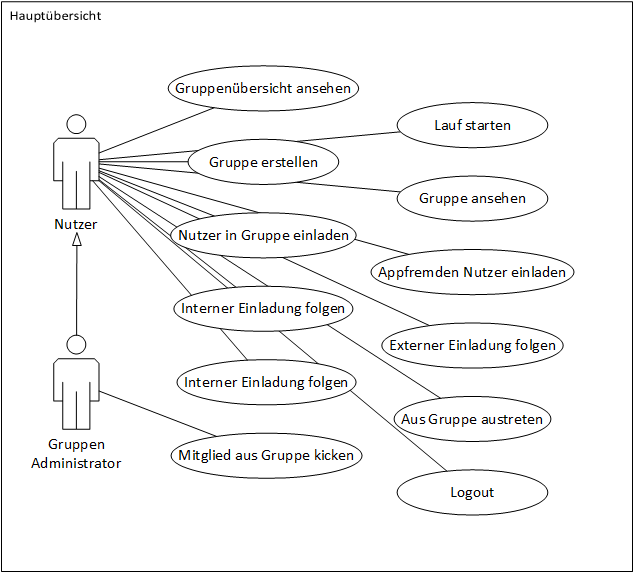
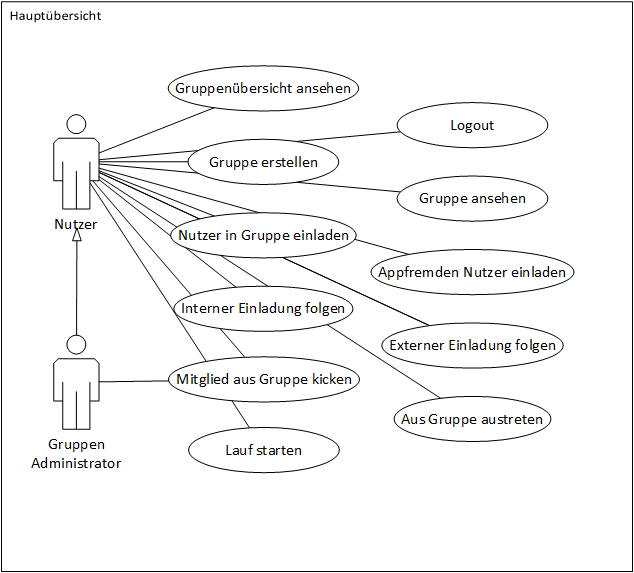
fixed use duplicate case diagram, added gpx export use case

diff --git a/docs/4_analyse.tex b/docs/4_analyse.tex
@@ -120,13 +120,13 @@ Misserfolg & Der Nutzer wird abgemeldet, falls eine Authentifizierung nicht mög
 \hline \end{tabular}
 \begin{tabular}{|p{0.2\textwidth}|p{0.8\textwidth}|}
 \hline
-\textbf{Use Case} & \textbf{Lauf starten} \\ \hline
+\textbf{Use Case} & \textbf{Logout} \\ \hline
 Aktoren &  Ein Nutzer \\ \hline
-Ziel &  Der Nutzer will einen neuen Lauf starten \\ \hline
-Bedingungen &  Der Nutzer ist angemeldet und befindet sich in der Hauptaktivität. Der Lokalisierungsdienst ist aktiviert \\ \hline
-Beschreibung &  Es wird eine Auswahl aller möglichen Distanzen und zugehörigen Gruppen angezeigt\\ \hline
-Erfolg & Der Dialog zum Starten eines Laufs wird angezeigt \\ \hline
-Misserfolg & Der Nutzer wird aufgefordert, den Lokalisierungsdienst zu starten \\ \hline
+Ziel &  Der Nutzer möchte sich abmelden \\ \hline
+Bedingungen &  Der Nutzer ist angemeldet und befindet sich in der Hauptaktivität \\ \hline
+Beschreibung & Der Nutzer betätigt den Logout Menüpunkt. Sein Authentifizierungstoken wird genau wie seine Nutzerdaten vom Android Gerät entfernt. Der Anmeldebildschirm wird angezeigt \\ \hline
+Erfolg & Der Nutzer hat keinen Zugriff mehr auf die Funktionen der App\\ \hline
+Misserfolg & Keiner \\ \hline
 \hline \end{tabular}
 \begin{tabular}{|p{0.2\textwidth}|p{0.8\textwidth}|}
 \hline
@@ -210,13 +210,13 @@ Misserfolg & Das Mitglied wird nicht gelöscht, falls der Nutzer kein Gruppenadm
 \hline \end{tabular}
 \begin{tabular}{|p{0.2\textwidth}|p{0.8\textwidth}|}
 \hline
-\textbf{Use Case} & \textbf{Logout} \\ \hline
+\textbf{Use Case} & \textbf{Lauf starten} \\ \hline
 Aktoren &  Ein Nutzer \\ \hline
-Ziel &  Der Nutzer möchte sich abmelden \\ \hline
-Bedingungen &  Der Nutzer ist angemeldet und befindet sich in der Hauptaktivität \\ \hline
-Beschreibung & Der Nutzer betätigt den Logout Menüpunkt. Sein Authentifizierungstoken wird genau wie seine Nutzerdaten vom Android Gerät entfernt. Der Anmeldebildschirm wird angezeigt \\ \hline
-Erfolg & Der Nutzer hat keinen Zugriff mehr auf die Funktionen der App\\ \hline
-Misserfolg & Keiner \\ \hline
+Ziel &  Der Nutzer will einen neuen Lauf starten \\ \hline
+Bedingungen &  Der Nutzer ist angemeldet und befindet sich in der Hauptaktivität. Der Lokalisierungsdienst ist aktiviert \\ \hline
+Beschreibung &  Es wird eine Auswahl aller möglichen Distanzen und zugehörigen Gruppen angezeigt\\ \hline
+Erfolg & Der Dialog zum Starten eines Laufs wird angezeigt \\ \hline
+Misserfolg & Der Nutzer wird aufgefordert, den Lokalisierungsdienst zu starten \\ \hline
 \hline \end{tabular}
 \begin{tabular}{|p{0.2\textwidth}|p{0.8\textwidth}|}
 \hline
@@ -286,6 +286,16 @@ Ziel &  Der Nutzer möchte den aktuellen Lauf abbrechen \\ \hline
 Bedingungen & Der Nutzer ist angemeldet und hat einen Lauf gestartet \\ \hline
 Beschreibung & Die Aufzeichnung des Laufs wird auf Knopfdruck abgebrochen, der Nutzer kehrt zum Hauptmenü zurück \\ \hline
 Erfolg & Der Nutzer landet im Hauptmenü, der Lauf wird verworfen \\ \hline
+Misserfolg & Keiner \\ \hline
+\hline \end{tabular}
+\begin{tabular}{|p{0.2\textwidth}|p{0.8\textwidth}|}
+\hline
+\textbf{Use Case} & \textbf{Lauf exportieren} \\ \hline
+Aktoren &  Ein Nutzer \\ \hline
+Ziel &  Der Nutzer möchte auf seine vergangenen Läufe zugreifen können \\ \hline
+Bedingungen & Der Nutzer ist angemeldet und ist bereits gelaufen \\ \hline
+Beschreibung & Während des Laufs wird die gelaufene Strecke in einer GPX Datei auf dem Gerät gespeichert. Der Nutzer kann später darauf zugreifen \\ \hline
+Erfolg & Eine GPX Datei mit den Daten des Laufs wird erstellt \\ \hline
 Misserfolg & Keiner \\ \hline
 \hline \end{tabular}
 \subsection{Komponenten der Webservers}
